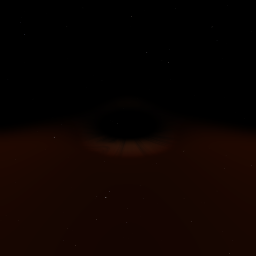
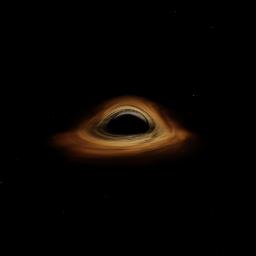
feat(BlackHole): cinematic accretion disk - optically thin plasma shading
Root cause of the "hard disc" saucer: the display composited the disk as a
uniformly opaque annulus with dim albedo, and the volumetric path-integral
term (baked over fixed generous bounds, r 0.5..25) painted a smooth opaque
halo out to 2.5x disk_outer - most of the visible saucer was that halo, not
the disk. Verified by per-stage attribution renders (crossing radii in the
saucer body: median 21.5 vs disk_outer 10).

Display compositor rewrite (single wgsl_compute node in BlackHole.json):
- Emission and opacity derive from ONE material density field (Beer-Lambert
  alpha): dark lanes go translucent, streak tails dissolve, no fixed annulus.
- Filamentary structure: azimuthally-stretched fbm on a circle-embedded
  domain, sheared by Keplerian differential rotation (w ~ r^-1.5) with
  flow-map sawtooth crossfade so churn never winds into mush.
- Luminous white->amber->ember palette; HDR emission (inner edge ~glow*2.4,
  cap 12) feeding the downstream bloom/halation/EDR pipeline.
- Volumetric term bounded by radial_envelope(disk material extent).
- Lensed second crossing at full brightness (was 0.4x) - the fold-over arc
  over the shadow is the Interstellar signature.
- Doppler beaming phase fixed: approaching side is at 90deg to camera
  azimuth (sin(rotate - phi), was cos(phi) = wrong lobe); rotateRad group
  output now wired into the display node.
- Speed slider fans out to the new shear_speed display uniform: visible
[…]

Changed region(s): [[0.2188, 0.375, 0.75, 0.625], [0.7188, 0.5312, 1.0, 0.8438], [0.0, 0.5312, 0.25, 0.8438]]

diff --git a/crates/manifold-renderer/src/bin/render_generator_preset.rs b/crates/manifold-renderer/src/bin/render_generator_preset.rs
@@ -1,0 +1,205 @@
+//! `render-generator-preset` — headless look-dev render of ONE generator
+//! preset at an arbitrary resolution, warm-up length, and outer-card param
+//! overrides. The factory-thumbnail bin (`generate_preset_thumbnails.rs`)
+//! renders every preset square at 256px with defaults — right for the
+//! browser, useless for judging a look. This bin is the iteration loop for
+//! shader work inside a preset: edit JSON → render → Read the PNG.
+//!
+//! Run:
+//!   cargo run -p manifold-renderer --bin render-generator-preset -- \
+//!       BlackHole --size 1280x720 --frames 90 --out /tmp/bh.png \
+//!       --param cam_dist=31.75 --param tilt=15
+//!
+//! Params are outer-card ids from the preset's `presetMetadata.params`;
+//! anything not overridden renders at its declared default. Output is the
+//! same Reinhard-tonemapped, straight-alpha-over-black PNG convention the
+//! save-time thumbnail path uses (linear HDR graph output → viewable PNG).
+
+use std::path::PathBuf;
+
+use half::f16;
+use manifold_core::effect_graph_def::EffectGraphDef;
+use manifold_core::params::{Param, ParamManifest};
+use manifold_gpu::{GpuDevice, GpuTexture};
+use manifold_renderer::gpu_encoder::GpuEncoder as RendererGpuEncoder;
+use manifold_renderer::node_graph::PrimitiveRegistry;
+use manifold_renderer::preset_context::PresetContext;
+use manifold_renderer::preset_runtime::PresetRuntime;
+use manifold_renderer::render_target::RenderTarget;
+
+struct Args {
+    preset: String,
+    width: u32,
+    height: u32,
+    frames: u32,
+    out: PathBuf,
+    overrides: Vec<(String, f32)>,
+}
+
+fn parse_args() -> Result<Args, String> {
+    let mut argv = std::env::args().skip(1);
+    let preset = argv.next().ok_or("usage: render-generator-preset <PresetId> [--size WxH] [--frames N] [--out PATH] [--param id=value ...]")?;
+    let mut args = Args {
+        preset,
+        width: 1280,
+        height: 720,
+        frames: 90,
+        out: PathBuf::from("/tmp/preset-render.png"),
+        overrides: Vec::new(),
+    };
+    while let Some(flag) = argv.next() {
+        let value = argv
+            .next()
+            .ok_or_else(|| format!("missing value for {flag}"))?;
+        match flag.as_str() {
+            "--size" => {
+                let (w, h) = value
+                    .split_once('x')
+                    .ok_or_else(|| format!("--size wants WxH, got {value}"))?;
+                args.width = w.parse().map_err(|e| format!("bad width: {e}"))?;
+                args.height = h.parse().map_err(|e| format!("bad height: {e}"))?;
+            }
+            "--frames" => {
+                args.frames = value.parse().map_err(|e| format!("bad frames: {e}"))?;
+            }
+            "--out" => args.out = PathBuf::from(value),
+            "--param" => {
+                let (id, v) = value
+                    .split_once('=')
+                    .ok_or_else(|| format!("--param wants id=value, got {value}"))?;
+                let v: f32 = v.parse().map_err(|e| format!("bad value for {id}: {e}"))?;
+                args.overrides.push((id.to_string(), v));
+            }
+            other => return Err(format!("unknown flag {other}")),
+        }
+    }
+    Ok(args)
+}
+
+fn main() {
+    let args = match parse_args() {
+        Ok(a) => a,
+        Err(e) => {
+            eprintln!("error: {e}");
+            std::process::exit(2);
+        }
+    };
+
+    let json_path = PathBuf::from(env!("CARGO_MANIFEST_DIR"))
+        .join("assets/generator-presets")
+        .join(format!("{}.json", args.preset));
+    let json = std::fs::read_to_string(&json_path)
+        .unwrap_or_else(|e| panic!("read {}: {e}", json_path.display()));
+    let def: EffectGraphDef = serde_json::from_str(&json).expect("parse preset JSON");
+
+    // Manifest seeded from the preset's own outer-card specs so overrides
+    // route through the same bindings the inspector card uses.
+    let mut params: Vec<Param> = def
+        .preset_metadata
+        .as_ref()
+        .map(|m| m.params.iter().map(|s| Param::bundled(s.clone())).collect())
+        .unwrap_or_default();
+    for (id, v) in &args.overrides {
+        match params.iter_mut().find(|p| p.id() == id) {
+            Some(p) => p.value = *v,
+            None => {
+                eprintln!("error: preset has no outer param '{id}'");
+                std::process::exit(2);
+            }
+        }
+    }
+    let manifest = ParamManifest::from_params(params);
+
+    let device = GpuDevice::new();
+    let registry = PrimitiveRegistry::with_builtin();
+    let format = manifold_gpu::GpuTextureFormat::Rgba16Float;
+    let mut runtime = PresetRuntime::from_def_with_device(
+        def,
+        &registry,
+        &device,
+        args.width,
+        args.height,
+        format,
+        None,
+    )
+    .expect("generator build failed");
+
+    let target = RenderTarget::new(
+        &device,
+        args.width,
+        args.height,
+        format,
+        "look-dev-target",
+    );
+
+    const DT: f32 = 1.0 / 60.0;
+    for frame in 0..args.frames.max(1) {
+        let time = frame as f64 * DT as f64;
+        let ctx = PresetContext {
+            time,
+            beat: time * 2.0, // 120 bpm
+            dt: DT,
+            width: args.width,
+            height: args.height,
+            output_width: args.width,
+            output_height: args.height,
+            aspect: args.width as f32 / args.height as f32,
+            owner_key: 0,
+            is_clip_level: false,
+            frame_count: frame as i64,
+            anim_progress: (frame as f32 / args.frames.max(1) as f32).min(1.0),
+            trigger_count: 0,
+        };
+        let mut enc = device.create_encoder("look-dev-frame");
+        {
+            let mut gpu = RendererGpuEncoder::new(&mut enc, &device);
+            runtime.render(&mut gpu, &target.texture, &ctx, &manifest);
+        }
+        enc.commit_and_wait_completed();
+    }
+
+    let rgba = readback_tonemapped_rgba8(&device, &target.texture, args.width, args.height);
+    image::save_buffer(
+        &args.out,
+        &rgba,
+        args.width,
+        args.height,
+        image::ExtendedColorType::Rgba8,
+    )
+    .expect("write PNG");
+    println!("OK {} ({}x{}, {} frames)", args.out.display(), args.width, args.height, args.frames);
+}
+
+/// Same convention as `preset_thumbnail::readback_tonemapped_rgba8` (private
+/// there): Reinhard tonemap + straight-alpha composite over opaque black.
+fn readback_tonemapped_rgba8(device: &GpuDevice, tex: &GpuTexture, w: u32, h: u32) -> Vec<u8> {
+    let bytes_per_row = w * 8;
+    let total = u64::from(h * bytes_per_row);
+    let buf = device.create_buffer_shared(total);
+    let mut enc = device.create_encoder("look-dev-readback");
+    enc.copy_texture_to_buffer(tex, &buf, w, h, bytes_per_row);
+    enc.commit_and_wait_completed();
+
+    let ptr = buf
+        .mapped_ptr()
+        .expect("shared readback buffer must expose mapped pointer");
+    let halves: &[u16] =
+        unsafe { std::slice::from_raw_parts(ptr.cast::<u16>(), (w * h * 4) as usize) };
+
+    let tonemap = |v: f32| -> u8 {
+        let ldr = (v / (1.0 + v)).clamp(0.0, 1.0);
+        (ldr * 255.0).round() as u8
+    };
+    let mut out = Vec::with_capacity((w * h * 4) as usize);
+    for px in halves.chunks_exact(4) {
+        let r = f16::from_bits(px[0]).to_f32();
+        let g = f16::from_bits(px[1]).to_f32();
+        let b = f16::from_bits(px[2]).to_f32();
+        let a = f16::from_bits(px[3]).to_f32().clamp(0.0, 1.0);
+        out.push(tonemap(r * a));
+        out.push(tonemap(g * a));
+        out.push(tonemap(b * a));
+        out.push(255);
+    }
+    out
+}